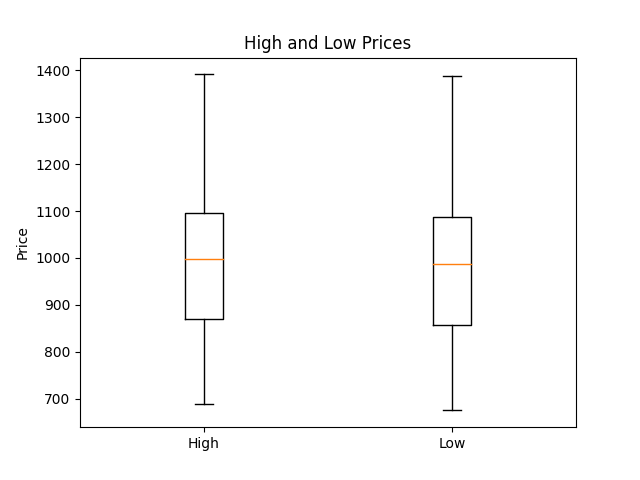
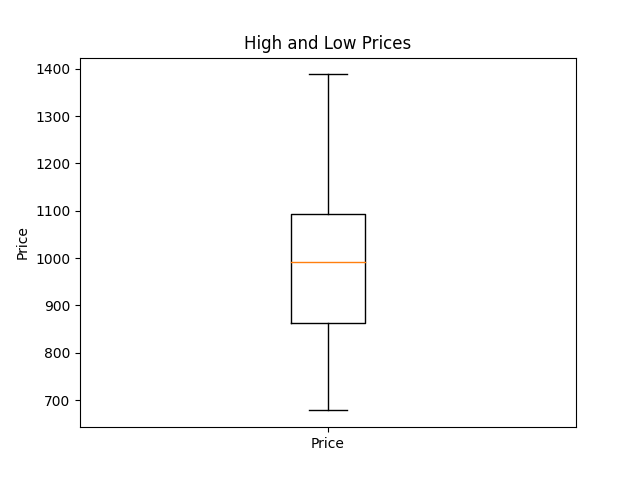
modify box plot

diff --git a/_layouts/final_thesis.py b/_layouts/final_thesis.py
@@ -50,8 +50,8 @@ plt.savefig('images/distribution_percent_changes.png')
 plt.show()
 
 #Box Plot of High and Low Prices
-plt.boxplot([high, low])
-plt.xticks([1, 2], ["High", "Low"])
+plt.boxplot([closing_price])
+plt.xticks([1], ["Price"])
 plt.ylabel("Price")
 plt.title("High and Low Prices")
 plt.savefig('images/box_plot.png')
